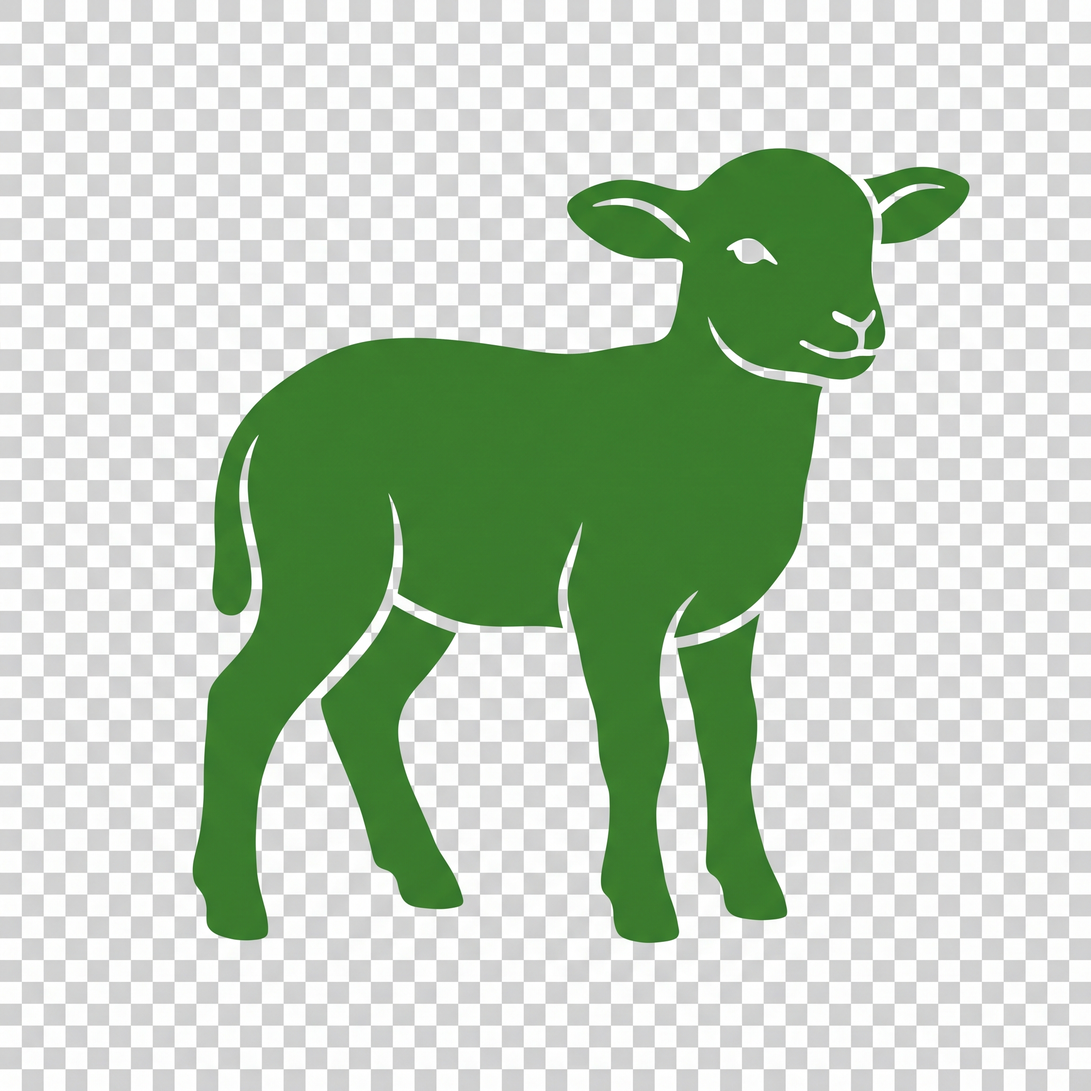
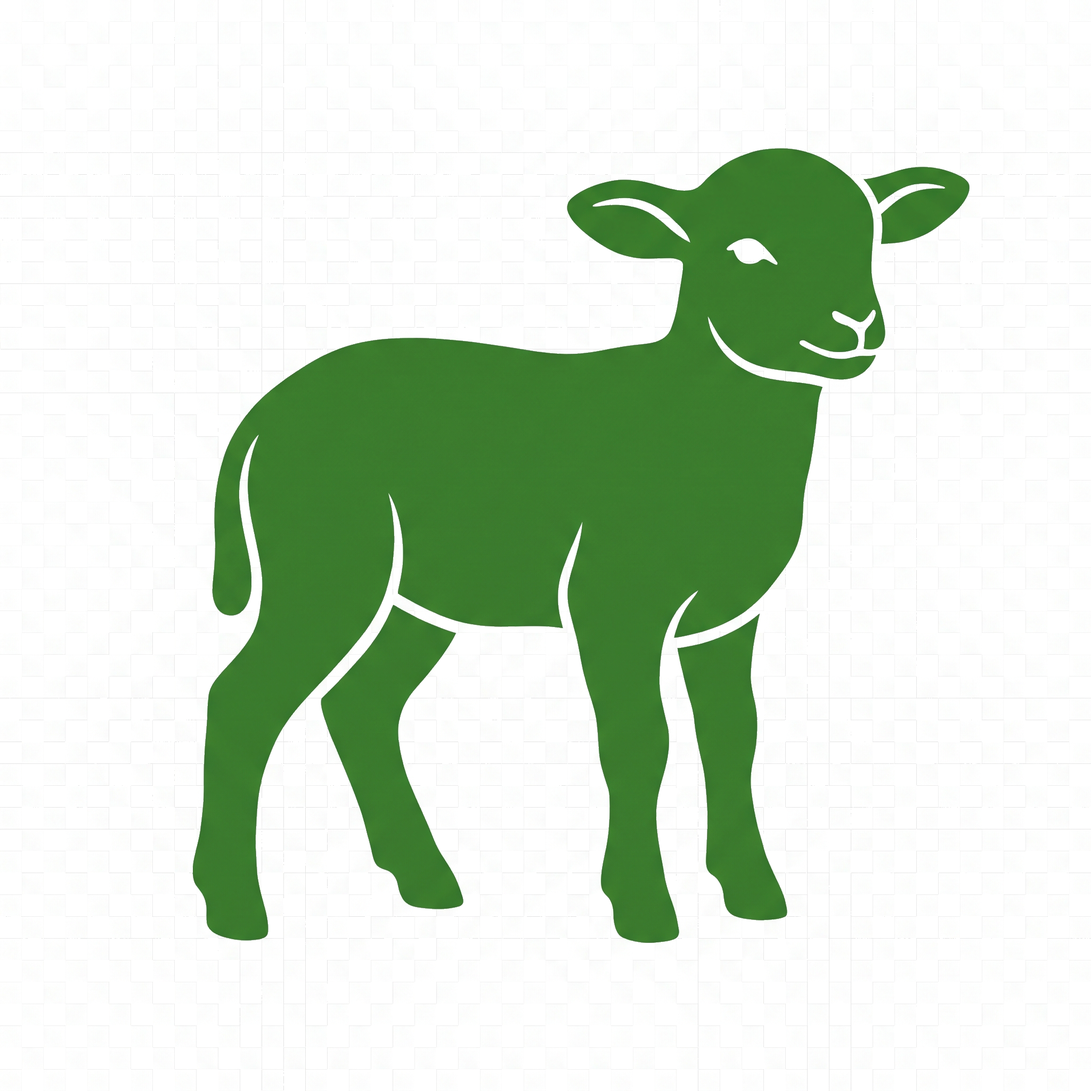
correçao dos icones

diff --git a/scripts/remover_fundo_icones.py b/scripts/remover_fundo_icones.py
@@ -1,0 +1,176 @@
+
+from pathlib import Path
+from PIL import Image
+
+# Pasta do projeto
+PROJETO = Path(__file__).resolve().parent.parent
+
+# Onde estão os ícones atuais
+PASTA_ORIGEM = PROJETO / "assets" / "images"
+
+# Onde serão salvas as versões sem fundo
+PASTA_DESTINO = PASTA_ORIGEM / "icones_sem_fundo"
+
+# Ícones internos que vamos processar
+ICONES = [
+    "icon_administracao.png",
+    "icon_agenda.png",
+    "icon_animais.png",
+    "icon_cobertura.png",
+    "icon_configuracoes.png",
+    "icon_cordeiro.png",
+    "icon_estoque.png",
+    "icon_farmacia.png",
+    "icon_financeiro.png",
+    "icon_manejo.png",
+    "icon_nascimento.png",
+    "icon_ovino_femea.png",
+    "icon_ovino_macho.png",
+    "icon_relatorios.png",
+    "icon_reproducao.png",
+]
+
+
+def distancia_cor(c1, c2):
+    """Calcula a diferença simples entre duas cores RGB."""
+    return (
+        abs(c1[0] - c2[0])
+        + abs(c1[1] - c2[1])
+        + abs(c1[2] - c2[2])
+    )
+
+
+def descobrir_cor_fundo(imagem):
+    """
+    Usa os pixels dos cantos para descobrir a cor predominante
+    do fundo da imagem.
+    """
+    largura, altura = imagem.size
+
+    pontos = [
+        (0, 0),
+        (largura - 1, 0),
+        (0, altura - 1),
+        (largura - 1, altura - 1),
+        (largura // 2, 0),
+        (largura // 2, altura - 1),
+        (0, altura // 2),
+        (largura - 1, altura // 2),
+    ]
+
+    cores = []
+
+    for ponto in pontos:
+        r, g, b, a = imagem.getpixel(ponto)
+        if a > 0:
+            cores.append((r, g, b))
+
+    if not cores:
+        return (255, 255, 255)
+
+    # Procura a cor mais frequente nos cantos.
+    melhor_cor = cores[0]
+    melhor_quantidade = 0
+
+    for cor in cores:
+        quantidade = sum(
+            1
+            for outra in cores
+            if distancia_cor(cor, outra) <= 30
+        )
+
+        if quantidade > melhor_quantidade:
+            melhor_quantidade = quantidade
+            melhor_cor = cor
+
+    return melhor_cor
+
+
+def remover_fundo(caminho_origem, caminho_destino):
+    imagem = Image.open(caminho_origem).convert("RGBA")
+
+    cor_fundo = descobrir_cor_fundo(imagem)
+
+    pixels = imagem.load()
+    largura, altura = imagem.size
+
+    # Tolerância para cores semelhantes ao fundo.
+    # Um valor moderado evita apagar partes verdes do desenho.
+    tolerancia = 45
+
+    for y in range(altura):
+        for x in range(largura):
+            r, g, b, a = pixels[x, y]
+
+            if a == 0:
+                continue
+
+            distancia = distancia_cor(
+                (r, g, b),
+                cor_fundo,
+            )
+
+            if distancia <= tolerancia:
+                pixels[x, y] = (r, g, b, 0)
+
+    caminho_destino.parent.mkdir(
+        parents=True,
+        exist_ok=True,
+    )
+
+    imagem.save(
+        caminho_destino,
+        "PNG",
+        optimize=True,
+    )
+
+
+def main():
+    print()
+    print("=" * 60)
+    print(" REMOÇÃO DE FUNDO DOS ÍCONES")
+    print("=" * 60)
+    print()
+
+    if not PASTA_ORIGEM.exists():
+        print("ERRO: pasta assets/images não encontrada.")
+        return
+
+    PASTA_DESTINO.mkdir(
+        parents=True,
+        exist_ok=True,
+    )
+
+    processados = 0
+    ignorados = 0
+
+    for nome in ICONES:
+        origem = PASTA_ORIGEM / nome
+        destino = PASTA_DESTINO / nome
+
+        if not origem.exists():
+            print(f"[IGNORADO] {nome} não encontrado.")
+            ignorados += 1
+            continue
+
+        try:
+            remover_fundo(origem, destino)
+            print(f"[OK] {nome}")
+            processados += 1
+        except Exception as erro:
+            print(f"[ERRO] {nome}: {erro}")
+
+    print()
+    print("=" * 60)
+    print(f"Processados: {processados}")
+    print(f"Ignorados:   {ignorados}")
+    print("=" * 60)
+    print()
+    print("As novas imagens estão em:")
+    print(PASTA_DESTINO)
+    print()
+    print("Os arquivos originais NÃO foram alterados.")
+
+
+if __name__ == "__main__":
+    main()
